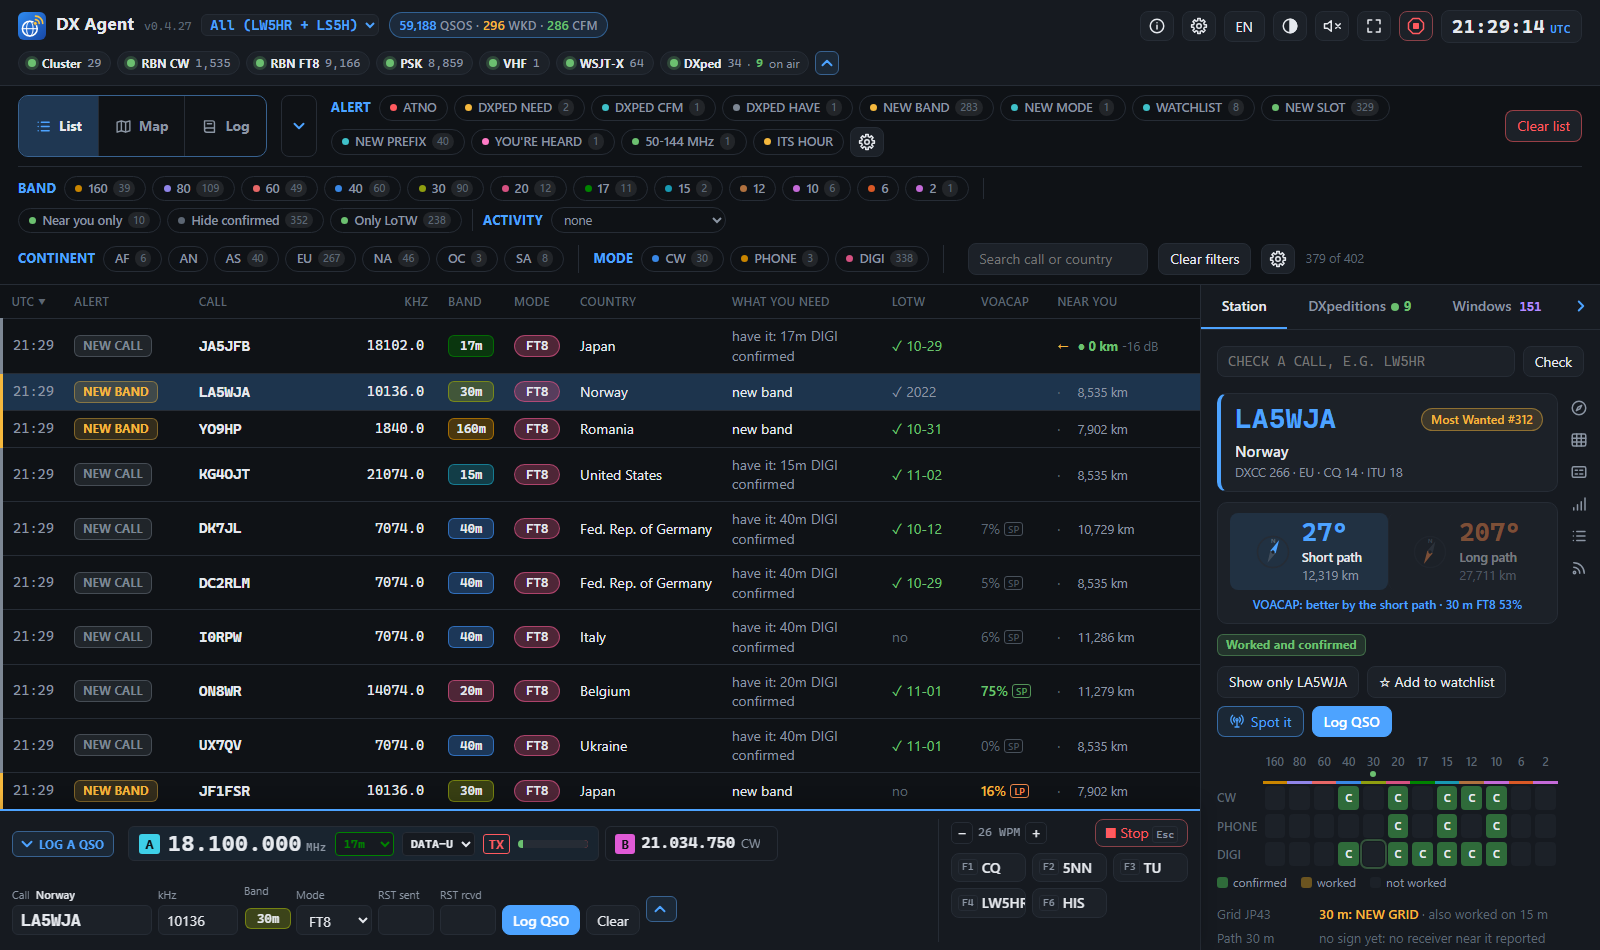
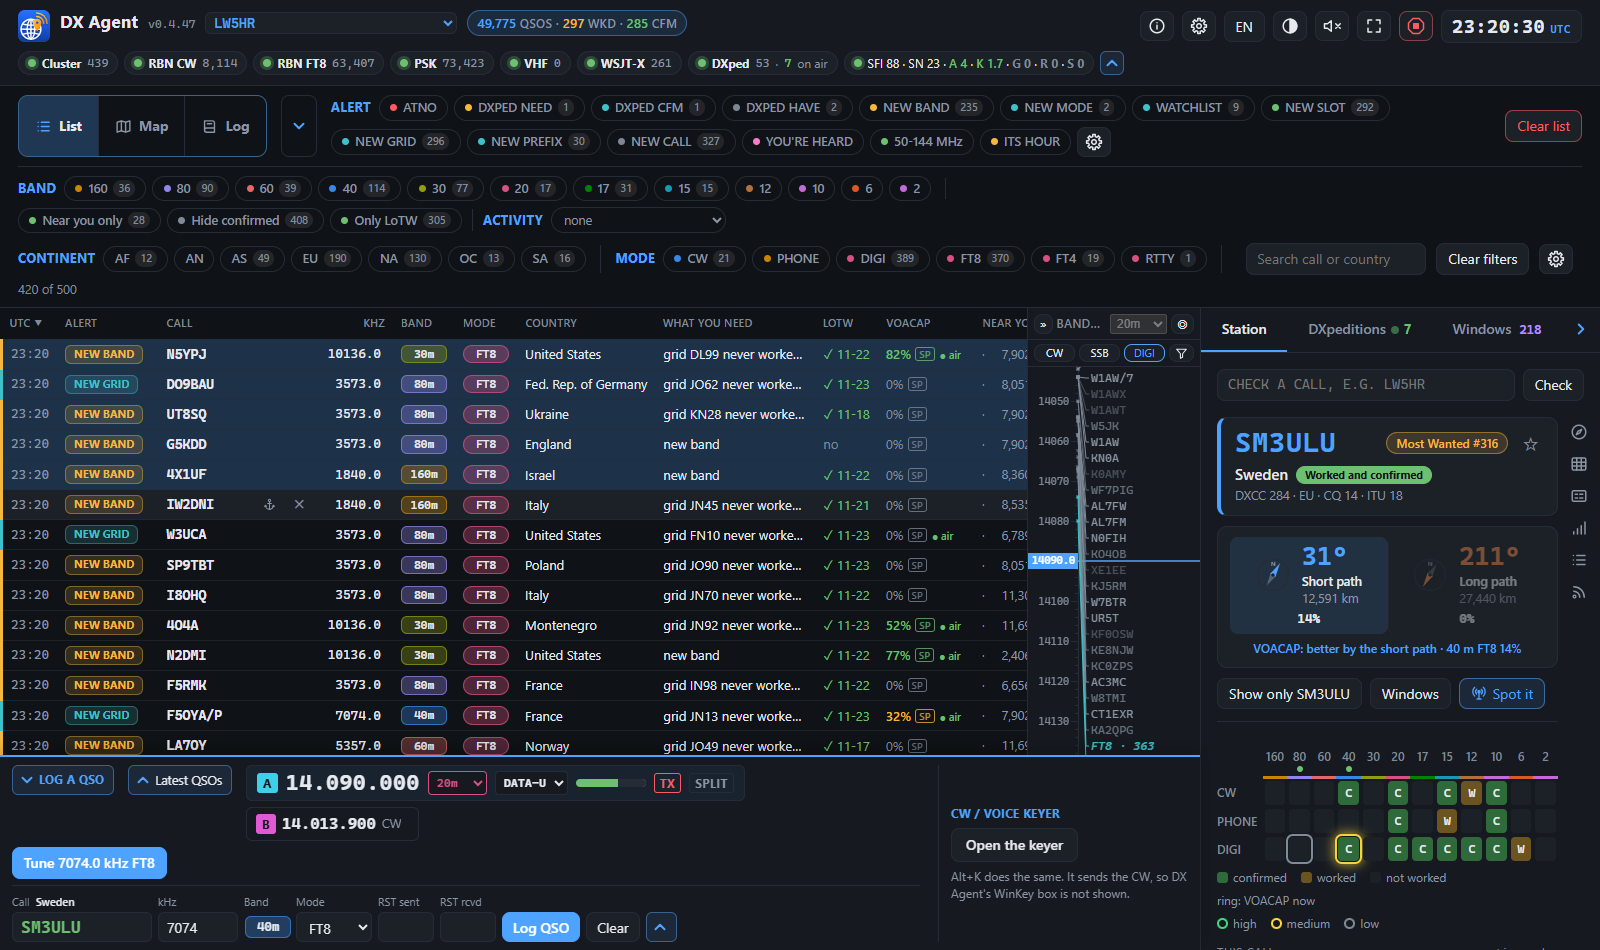
Page: the screens now show the bandmap and Ventanas, next to the list, the grid, the DXpeditions, the map, the grids and the activity; the hero and its caption follow the Station tab as it is now, with the watchlist star by the call, the Windows and Spot it buttons and the ring of VOACAP's chance on
The screenshots come from 0.4.47 plus the APRS layer and the map's layers, which are not released yet, so the page leads the next version.

diff --git a/es/index.html b/es/index.html
@@ -108,21 +108,27 @@
   </section>
 
   <figure>
-    <img src="../images/station.es.png" alt="DX Agent: la lista de alertas con una estación elegida, y la pestaña Estación con lo que tenés de ese país por banda y modo, su estado en LoTW, los rumbos de antena y el botón para cargar el QSO" width="1000" loading="eager">
+    <img src="../images/station.es.png" alt="DX Agent: la lista de alertas con una estación elegida, y la pestaña Estación con lo que tenés de ese país por banda y modo, su estado en LoTW, los rumbos, la estrella de seguimiento al lado del indicativo y los botones Ventanas y Spotear" width="1000" loading="eager">
     <figcaption>La lista de alertas y lo que cada estación suma a tu log: qué te falta, el estado en
-      LoTW y las bandas y modos que ya tenés.</figcaption>
+      LoTW, las bandas y modos que ya tenés y los anillos de las que está usando ahora.</figcaption>
   </figure>
 
   <h2>Qué te avisa</h2>
   <ul class="features">
     <li><b>ATNO, banda nueva, modo nuevo</b> Avisa solo cuando trabajar esa estación suma algo de
-      verdad: el país nunca trabajado, la banda o el modo que te falta, o una combinación que no tenés.</li>
+      verdad: el país nunca trabajado, la banda o el modo que te falta, o una combinación que no tenés.
+      Las alertas siguen los modos que elegís, por grupo o uno por uno (RTTY sin FT8, por ejemplo), y
+      MODO NUEVO y BANDA+MODO se cuentan por grupo o por el modo exacto.</li>
     <li><b>Grids Maidenhead</b> Los grids que trabajaste y confirmaste en el mapa (VUCC,
       FFMA), las estaciones oídas con locator en su grid, y una alerta GRID NUEVO cuando está en el
       aire un grid que te falta en esa banda.</li>
     <li><b>Tus diplomas en el mapa</b> DXCC (Mixto, por modo o banda, Satélite, Challenge), WAZ
       (también 5BWAZ) y WAS (los 50 estados de EE. UU.), cada país, zona o estado pintado confirmado,
       trabajado o faltante; un clic en un país muestra lo que tenés de él.</li>
+    <li><b>Capas en el mapa</b> Los límites admin-1 y las zonas CQ o ITU, desde un menú debajo del
+      zoom; una vista azimutal centrada en vos, 64× más grande; el mundo entero hasta 2° de ancho; y
+      la capa APRS, con los iGates, digipeaters y estaciones fijas cerca tuyo y los enlaces RF
+      escuchados últimamente, coloreados por distancia.</li>
     <li><b>DXpediciones que valen la pena</b> Las DXpediciones anunciadas en NG3K, 425 DX News y Club
       Log, cada una diciendo si te suma una entidad, una banda o un modo, y si ya estás en su log
       online.</li>
@@ -136,18 +142,35 @@
     <li><b>Ventanas: a qué hora estar</b> Para cada país que te falta, las horas y las bandas en que se
       escuchó desde estaciones cerca de la tuya, armado con los spots que DX Agent ya lee y guardado mes
       a mes. Al empezar cada hora UTC una alerta <b>SU HORA</b> te nombra uno que suele escucharse cerca
-      tuyo a esa hora, para saber cuándo sentarte en la silla.</li>
+      tuyo a esa hora, para saber cuándo sentarte en la silla. La pestaña Estación la abre en cualquier
+      país con un clic, aunque ya lo tengas: lo que se escucha cerca tuyo no depende de lo que te falta.</li>
+    <li><b>La tira de la banda, al lado de la lista</b> Con una radio configurada, una tira alrededor
+      del VFO muestra la banda como un bandmap: cada estación spoteada en los
+      últimos 30 minutos en el color de su alerta, que se va apagando con la edad. La rueda hace
+      zoom, arrastrando se recorre la banda y un clic sintoniza ahí; CW, SSB y DIGI las juntan en
+      etiquetas, el botón » la pliega a un riel con la banda entera, y con dos radios hay dos tiras,
+      una por radio.</li>
+    <li><b>Filas fijadas, y una línea por banda</b> El botón de fijar, al lado de la ✕ de una fila, la
+      deja en la lista, en esa banda y modo, por más que se haya spoteado hace rato; ordenada por frecuencia,
+      cada banda abre con su propia línea, y un spot más nuevo de la misma estación actualiza su fila
+      en vez de sumar otra.</li>
     <li><b>Propagación: VOACAP y el camino</b> La chance de un QSO con cada estación a esta hora, en
       los dos sentidos, con VOACAP incluido (no hay nada que instalar), las próximas 24 horas por
       banda, y si tu propia señal se reportó cerca de la estación.</li>
     <li><b>Te escuchan</b> Tu propio indicativo spoteado: qué skimmers y receptores de PSKReporter te
       escuchan, a qué distancia y en qué país, en la lista y en el mapa.</li>
+    <li><b>Alertas en el teléfono</b> Las mismas alertas en tu propio bot de Telegram, y cada una abre
+      una página chica con esa estación: qué suma, desde dónde se escucha, su grid y la chance de
+      VOACAP ahora.</li>
     <li><b>Aperturas en VHF</b> Una alerta cuando 6 m o 2 m se abren a tu alrededor, con los reportes
       en vivo de PSKReporter.</li>
     <li><b>CQ DX Marathon</b> Tu puntaje del año o del Sprint, los países y zonas CQ que te faltan, y
       una alerta cuando sale al aire uno de ellos.</li>
     <li><b>Varios indicativos</b> Cada uno con su log; las alertas y los diplomas de todos juntos, o
       del que elijas.</li>
+    <li><b>Desde otra computadora, y una API</b> El panel en otra PC de tu red, con la radio donde
+      está y un PIN que la mantiene tuya; y una API con sus propios tokens, para que otro programa lea
+      la lista, las alertas y los diplomas, cargue, edite y suba QSOs, o mueva la radio.</li>
     <li><b>Un clic a la radio</b> Sintonizá el spot desde el panel: Log4OM, N1MM, DXLog.net, OmniRig,
       Hamlib, flrig, DXLab, WSJT-X o TCI (una FlexRadio con AetherSDR, con las alertas en su
       panadaptador; en prueba). Su frecuencia, sus VFO y su S-meter al lado del formulario del QSO,
@@ -170,16 +193,26 @@
       <figcaption>Todos los spots, o solo lo que te falta.</figcaption>
     </figure>
     <figure>
-      <img src="../images/grid-onair.es.png" alt="DX Agent: la grilla de bandas y modos, con un anillo verde en la banda donde la estación está en el aire ahora" loading="lazy">
-      <figcaption>Lo que tenés de ese país, banda por banda y modo por modo.</figcaption>
+      <img src="../images/grid-onair.es.png" alt="DX Agent: la grilla de bandas y modos, con un anillo verde en la banda donde la estación está en el aire ahora, y la leyenda de los colores del anillo" loading="lazy">
+      <figcaption>Lo que tenés de ese país, banda por banda y modo por modo; el anillo es la chance
+        de VOACAP donde está en el aire ahora.</figcaption>
+    </figure>
+    <figure>
+      <img src="../images/bandmap.es.png" alt="DX Agent: la lista de alertas con la tira de la banda a su derecha, las estaciones alrededor del VFO en la banda de la radio, con las etiquetas CW, SSB y DIGI" loading="lazy">
+      <figcaption>La banda al lado de la lista: cada estación alrededor del VFO, y un clic sintoniza ahí.</figcaption>
+    </figure>
+    <figure>
+      <img src="../images/ventanas.es.png" alt="DX Agent: la pestaña Ventanas con un país abierto, sus 24 horas por banda y modo, las horas escuchadas cerca tuyo y las que completa VOACAP" loading="lazy">
+      <figcaption>Ventanas: cuándo se escucha cada país que te falta, hora por hora.</figcaption>
     </figure>
     <figure>
       <img src="../images/dxpeditions.es.png" alt="DX Agent: la pestaña de DXpediciones, con las que están en el aire ahora y lo que cada una suma al log" loading="lazy">
       <figcaption>DXpediciones en el aire ahora, y qué suma cada una a tu log.</figcaption>
     </figure>
     <figure>
-      <img src="../images/map.es.png" alt="DX Agent: el mapa mundial con las alertas, las DXpediciones en el aire, tu propia estación y la zona de noche" loading="lazy">
-      <figcaption>Tu DXCC y tu WAZ en un mapa mundial.</figcaption>
+      <img src="../images/map.es.png" alt="DX Agent: el mapa mundial con las alertas, las DXpediciones en el aire, tu propia estación, la zona de noche y el menú de capas del mapa" loading="lazy">
+      <figcaption>Tu DXCC y tu WAZ en un mapa mundial, con las zonas, los límites admin-1 y la capa
+        APRS a un clic.</figcaption>
     </figure>
     <figure>
       <img src="../images/grids.es.png" alt="DX Agent: la vista Grillas del mapa, con los grids trabajados y confirmados y las estaciones en el aire en su grid" loading="lazy">

diff --git a/index.html b/index.html
@@ -107,22 +107,27 @@
   </section>
 
   <figure>
-    <img src="images/station.en.png" alt="DX Agent: the alert list with a station picked, and the Station tab showing what you have of that country by band and mode, its LoTW status, the beam headings and a one-click Log QSO" width="1000" loading="eager">
-    <figcaption>The alert list, and what each station adds to your log: need, LoTW status and the
-      bands and modes you already have.</figcaption>
+    <img src="images/station.en.png" alt="DX Agent: the alert list with a station picked, and the Station tab showing what you have of that country by band and mode, its LoTW status, the beam headings, the watchlist star by the call and the Windows and Spot it buttons" width="1000" loading="eager">
+    <figcaption>The alert list, and what each station adds to your log: need, LoTW status, the
+      bands and modes you already have, and the rings of the ones it is on the air now.</figcaption>
   </figure>
 
   <h2>What it tells you</h2>
   <ul class="features">
     <li><b>ATNO, new band, new mode</b> An alert only when working that station would actually add
       something: the country never worked, the band or the mode you are missing, or a combination
-      you do not have.</li>
+      you do not have. The alerts follow the modes you pick, group by group or one by one (RTTY
+      without FT8, say), and NEW MODE and NEW SLOT count by group or by the exact mode.</li>
     <li><b>Maidenhead grid squares</b> The squares you worked and confirmed on the map (VUCC,
       FFMA), the stations heard with a locator in their square, and a NEW GRID alert when a square
       you still need on that band is on the air.</li>
     <li><b>Your awards on the map</b> DXCC (Mixed, by mode or band, Satellite, Challenge), WAZ
       (5BWAZ too) and WAS (the 50 US states), each country, zone or state painted confirmed, worked
       or missing; click a country to see what you have of it.</li>
+    <li><b>Layers on the map</b> Admin-1 borders and the CQ or ITU zones, from a menu under the zoom;
+      an azimuthal view centred on you, 64× as large; the whole world down to 2° of width; and the
+      APRS layer, with the iGates, digipeaters and fixed stations near you and the RF links heard
+      lately, coloured by distance.</li>
     <li><b>DXpeditions worth your time</b> Announced DXpeditions from NG3K, 425 DX News and Club Log,
       each one saying whether it adds an entity, a band or a mode for you, and whether you are
       already in their online log.</li>
@@ -136,18 +141,35 @@
     <li><b>Ventanas: when to be there</b> For every country you still need, the hours and bands it was
       heard from stations near yours, built from the spots DX Agent already reads and kept month by
       month. At the top of each UTC hour an <b>ITS HOUR</b> alert names one that is usually heard near
-      you then, so you know when to be in the chair.</li>
+      you then, so you know when to be in the chair. The Station tab opens it on any country with one
+      click, even one you already have: what is heard near you does not depend on what you need.</li>
+    <li><b>The band, beside the list</b> With a radio set up, a strip around the VFO shows the band
+      as a bandmap: every station spotted in the last 30 minutes in the colour of its
+      alert, fading as it ages. The wheel zooms, a drag moves along the band, a click tunes there;
+      CW, SSB and DIGI gather them into labels, the » button folds it to a rail with the whole band,
+      and with two radios there are two strips, one per radio.</li>
+    <li><b>Pinned rows, and a line per band</b> The pin beside a row's ✕ keeps that station, on
+      that band and mode, in the list however long ago it was spotted; sorted by frequency, each band
+      opens with its own line, and a newer spot of the same station updates its row instead of adding
+      one.</li>
     <li><b>Propagation: VOACAP and the path</b> The chance of a QSO with each station this hour, both
       ways, with VOACAP built in (nothing to install), the next 24 hours by band, and whether your
       own signal was reported near the station.</li>
     <li><b>Who hears you</b> Your own call spotted: which skimmers and PSKReporter receivers hear
       you, how far away and in which country, on the list and the map.</li>
+    <li><b>Alerts on the phone</b> The same alerts on your own Telegram bot, and each one opens a
+      small page with that station: what it adds, where it is heard from, its grid and VOACAP's
+      chance now.</li>
     <li><b>VHF openings</b> An alert when 6 m or 2 m opens around you, from PSKReporter's live
       reports.</li>
     <li><b>CQ DX Marathon</b> Your score for the year or the Sprint, the countries and CQ zones still
       missing, and an alert when one of them is on the air.</li>
     <li><b>Several callsigns</b> Each with its own log; alerts and awards for all of them together,
       or for the one you pick.</li>
+    <li><b>From another computer, and an API</b> The dashboard on another PC of your network, with
+      the radio where it is, a PIN keeping it yours; and an API with its own tokens, so another
+      program can read the list, the alerts and the awards, load, edit and upload QSOs, or move the
+      radio.</li>
     <li><b>One click to the radio</b> Tune to the spot from the dashboard: Log4OM, N1MM, DXLog.net,
       OmniRig, Hamlib, flrig, DXLab, WSJT-X or TCI (a FlexRadio on AetherSDR, with the alerts on its
       panadapter; in testing). Its frequency, VFOs and S-meter beside the QSO form, one radio or two,
@@ -169,16 +191,26 @@
       <figcaption>Every spot, or only what you need.</figcaption>
     </figure>
     <figure>
-      <img src="images/grid-onair.en.png" alt="DX Agent: the band and mode grid, with a green ring on the band where the station is on the air now" loading="lazy">
-      <figcaption>What you have of that country, band by band and mode by mode.</figcaption>
+      <img src="images/grid-onair.en.png" alt="DX Agent: the band and mode grid, with a green ring on the band where the station is on the air now, and the legend of the ring's colours" loading="lazy">
+      <figcaption>What you have of that country, band by band and mode by mode; the ring is
+        VOACAP's chance where it is on the air now.</figcaption>
+    </figure>
+    <figure>
+      <img src="images/bandmap.en.png" alt="DX Agent: the alert list with the bandmap strip at its right, the stations around the VFO on the radio's band, with the CW, SSB and DIGI labels" loading="lazy">
+      <figcaption>The band beside the list: every station around the VFO, and a click tunes there.</figcaption>
+    </figure>
+    <figure>
+      <img src="images/ventanas.en.png" alt="DX Agent: the Ventanas tab with a country opened, its 24 hours by band and mode, the hours heard near you and the ones VOACAP fills in" loading="lazy">
+      <figcaption>Ventanas: when each country you need is heard from near you, hour by hour.</figcaption>
     </figure>
     <figure>
       <img src="images/dxpeditions.en.png" alt="DX Agent: the DXpeditions tab, with the ones on the air now and what each adds to the log" loading="lazy">
       <figcaption>DXpeditions on the air now, and what each one adds to your log.</figcaption>
     </figure>
     <figure>
-      <img src="images/map.en.png" alt="DX Agent: the world map with the alerts, the DXpeditions on the air, your own station and the night side" loading="lazy">
-      <figcaption>Your DXCC and WAZ standing on a world map.</figcaption>
+      <img src="images/map.en.png" alt="DX Agent: the world map with the alerts, the DXpeditions on the air, your own station and the night side, and the menu of the map's layers" loading="lazy">
+      <figcaption>Your DXCC and WAZ standing on a world map, with the zones, the admin-1 borders
+        and the APRS layer a click away.</figcaption>
     </figure>
     <figure>
       <img src="images/grids.en.png" alt="DX Agent: the map's Grids view, with the grid squares worked and confirmed and the stations on the air in their square" loading="lazy">

diff --git a/README.md b/README.md
@@ -30,7 +30,13 @@ Nothing to install: Python comes inside.
 What it does:
 
 - Alerts for **ATNO**, new band, new mode, DXpeditions you need, and your watchlist, from the
-  cluster and the RBN (CW, RTTY, FT8/FT4).
+  cluster and the RBN (CW, RTTY, FT8/FT4). The modes are picked group by group or one by one, and
+  what counts as a new mode can be the exact mode (FT8 without RTTY).
+- **Ventanas:** when each country you still need is heard from near you, hour by hour, and an
+  **ITS HOUR** alert at the top of each UTC hour.
+- **Bandmap:** with a radio, a strip beside the list with the band around the VFO, the stations in
+  their alert's colour, zoom, a rail with the whole band, CW/SSB/DIGI labels and a click to tune;
+  two strips with two radios.
 - **DXpeditions** from NG3K, 425 DX News and Club Log, with what each one adds to your log and
   whether you're in their log.
 - **Near you:** whether the station is being heard close to your QTH, and whether your own
@@ -42,7 +48,7 @@ What it does:
   the call filled in in Log4OM and WSJT-X; with a FlexRadio on AetherSDR (TCI, in testing) the alerts
   also show on its panadapter.
 - **POTA, SOTA, IOTA, WWFF** and more, with the summits and parks you haven't worked.
-- A **world map** with your DXCC and WAZ standing and your Maidenhead grid squares (VUCC, FFMA); click a country to see what you have of it.
+- A **world map** with your DXCC and WAZ standing and your Maidenhead grid squares (VUCC, FFMA); click a country to see what you have of it. Its layers menu adds the admin-1 borders and the CQ or ITU zones, and the **APRS layer** shows the iGates, digipeaters and RF links near you.
 - The **CQ DX Marathon**, the year or the Sprint: your countries and zones, and alerts for the
   ones you still need.
 - **Several callsigns** (a contest call, say), each with its own log, counted together.
